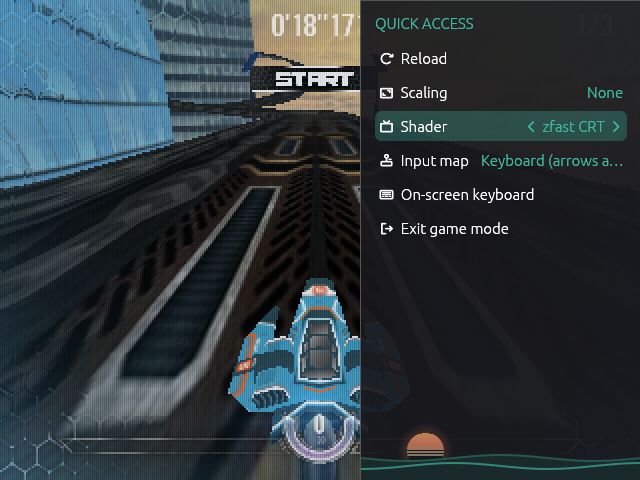
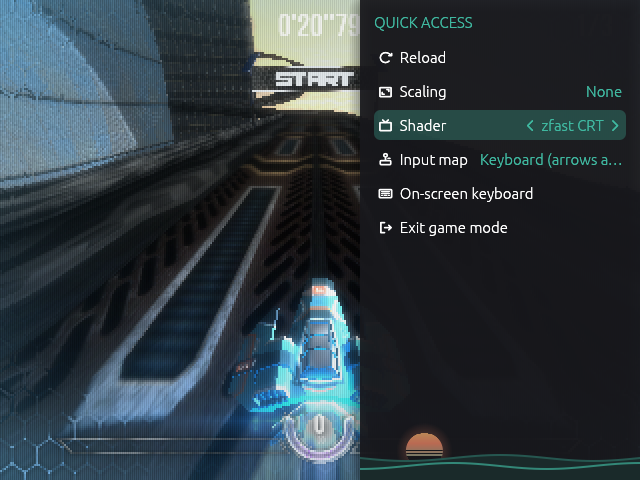
fix(ui): edge shadows for side-panel

diff --git a/src/ui/quick_access.rs b/src/ui/quick_access.rs
@@ -26,6 +26,14 @@ const MAX_SHARE: f32 = 0.5;
 /// Opacity of the strip's fill: enough to read rows over any page.
 const STRIP_OPACITY: f32 = 0.92;
 
+/// Sets the strip off a page as dark as its fill.
+const STRIP_SHADOW: egui::Shadow = egui::Shadow {
+    offset: [0, 0],
+    blur: 24,
+    spread: 0,
+    color: egui::Color32::from_black_alpha(160),
+};
+
 /// The brand horizon's sun: a third set, and pulled toward the panel so it
 /// reads as a mark rather than a picture.
 const SUN: brand::Horizon = brand::Horizon {
@@ -44,8 +52,12 @@ pub(in crate::ui) fn add_quick_access(
     commands: &mut Vec<AppCommand>,
 ) {
     let screen = ctx.content_rect();
+    // A shadow rather than a line: the edges on the screen's border cast it off
+    // screen, so only the one facing the page shows.
     let frame = theme::card_frame()
         .fill(theme::PANEL_FILL.gamma_multiply(STRIP_OPACITY))
+        .stroke(egui::Stroke::NONE)
+        .shadow(STRIP_SHADOW)
         .corner_radius(0.0);
     let margin = frame.inner_margin.sum();
     let outer = STRIP_W.min(screen.width() * MAX_SHARE);
